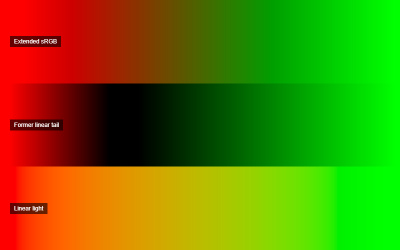
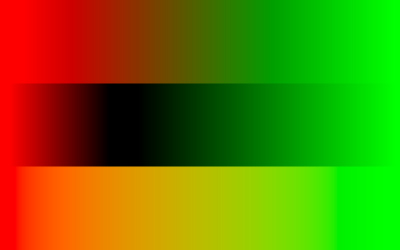
Match color space presentation to standard WebGPU examples

Changed region(s): [[0.0, 0.476, 0.18, 0.532], [0.0, 0.14, 0.15, 0.196], [0.0, 0.812, 0.12, 0.868]]

diff --git a/examples/webgpu_colorspace.html b/examples/webgpu_colorspace.html
@@ -9,21 +9,23 @@
 		<meta property="og:url" content="https://threejs.org/examples/webgpu_colorspace.html">
 		<meta property="og:image" content="https://threejs.org/examples/screenshots/webgpu_colorspace.jpg">
 		<link type="text/css" rel="stylesheet" href="example.css">
-		<style>
-			#labels { position: absolute; inset: 0; display: flex; flex-direction: column; justify-content: space-around; pointer-events: none; }
-			#labels span { align-self: flex-start; margin-left: 20px; padding: 4px 8px; background: #0009; color: #fff; font: 12px sans-serif; }
-			#labels[hidden] { display: none; }
-		</style>
 	</head>
 	<body>
+
 		<div id="info">
 			<a href="https://threejs.org/" target="_blank" rel="noopener" class="logo-link"></a>
+
 			<div class="title-wrapper">
-				<a href="https://threejs.org/" target="_blank" rel="noopener">three.js</a><span>Color Space</span>
+				<a href="https://threejs.org/" target="_blank" rel="noopener">three.js</a><span>Color Spaces</span>
 			</div>
-			<small id="description">Display-P3 interpolation with signed sRGB components. Final colors are clipped to the sRGB display gamut.</small>
+
+			<small>
+				<a href="https://www.w3.org/TR/css-color-4/#color-conversion-code" target="_blank" rel="noopener">Extended sRGB</a> preserves negative components during Display-P3 color interpolation.<br />
+				Top: extended sRGB. Middle: former transfer curve. Bottom: linear light.<br />
+				Transfer plots: teal = extended sRGB, orange = former curve. Final colors are clipped to sRGB.
+			</small>
 		</div>
-		<div id="labels"><span>Extended sRGB</span><span>Former linear tail</span><span>Linear light</span></div>
+
 		<script type="importmap">
 			{
 				"imports": {
@@ -38,6 +40,7 @@
 
 			import * as THREE from 'three/webgpu';
 			import { Fn, If, mix, uniform, uv, vec3, min, sRGBTransferEOTF, sRGBTransferOETF } from 'three/tsl';
+
 			import { Inspector } from 'three/addons/inspector/Inspector.js';
 
 			let renderer, scene, camera;
@@ -138,9 +141,9 @@
 				renderer.inspector = new Inspector();
 				document.body.appendChild( renderer.domElement );
 
-				const gui = renderer.inspector.createParameters( 'Parameters' );
-				gui.add( params, 'view', { 'Interpolation': 0, 'Linear → sRGB': 1, 'sRGB → linear': 2 } ).name( 'View' ).onChange( update );
-				gui.add( params, 'pair', { 'Red → green': 0, 'Orange → cyan': 1, 'Magenta → green': 2 } ).name( 'Display-P3 endpoints' ).onChange( update );
+				const gui = renderer.inspector.createParameters( 'Settings' );
+				gui.add( params, 'view', { 'Interpolation': 0, 'Linear → sRGB': 1, 'sRGB → linear': 2 } ).name( 'View' ).onChange( update ).info( 'Interpolation compares three transfer methods. Plots show input and output from -1.5 to +1.5, with a 0.5 grid.' );
+				gui.add( params, 'pair', { 'Red → green': 0, 'Orange → cyan': 1, 'Magenta → green': 2 } ).name( 'Colors' ).onChange( update ).info( 'Display-P3 endpoints for the interpolation comparison.' );
 
 				window.addEventListener( 'resize', onWindowResize );
 				onWindowResize();
@@ -154,10 +157,6 @@
 				start.value.fromArray( endpoints[ 0 ] ).convertSRGBToLinear().applyMatrix3( p3ToSRGB );
 				end.value.fromArray( endpoints[ 1 ] ).convertSRGBToLinear().applyMatrix3( p3ToSRGB );
 				view.value = params.view;
-				document.getElementById( 'labels' ).hidden = params.view !== 0;
-				document.getElementById( 'description' ).textContent = params.view === 0
-					? 'Display-P3 interpolation with signed sRGB components. Final colors are clipped to the sRGB display gamut.'
-					: 'Input (horizontal) and output (vertical): −1.5 to +1.5. Grid: 0.5. Extended sRGB: teal. Former linear tail: orange.';
 
 			}
 
